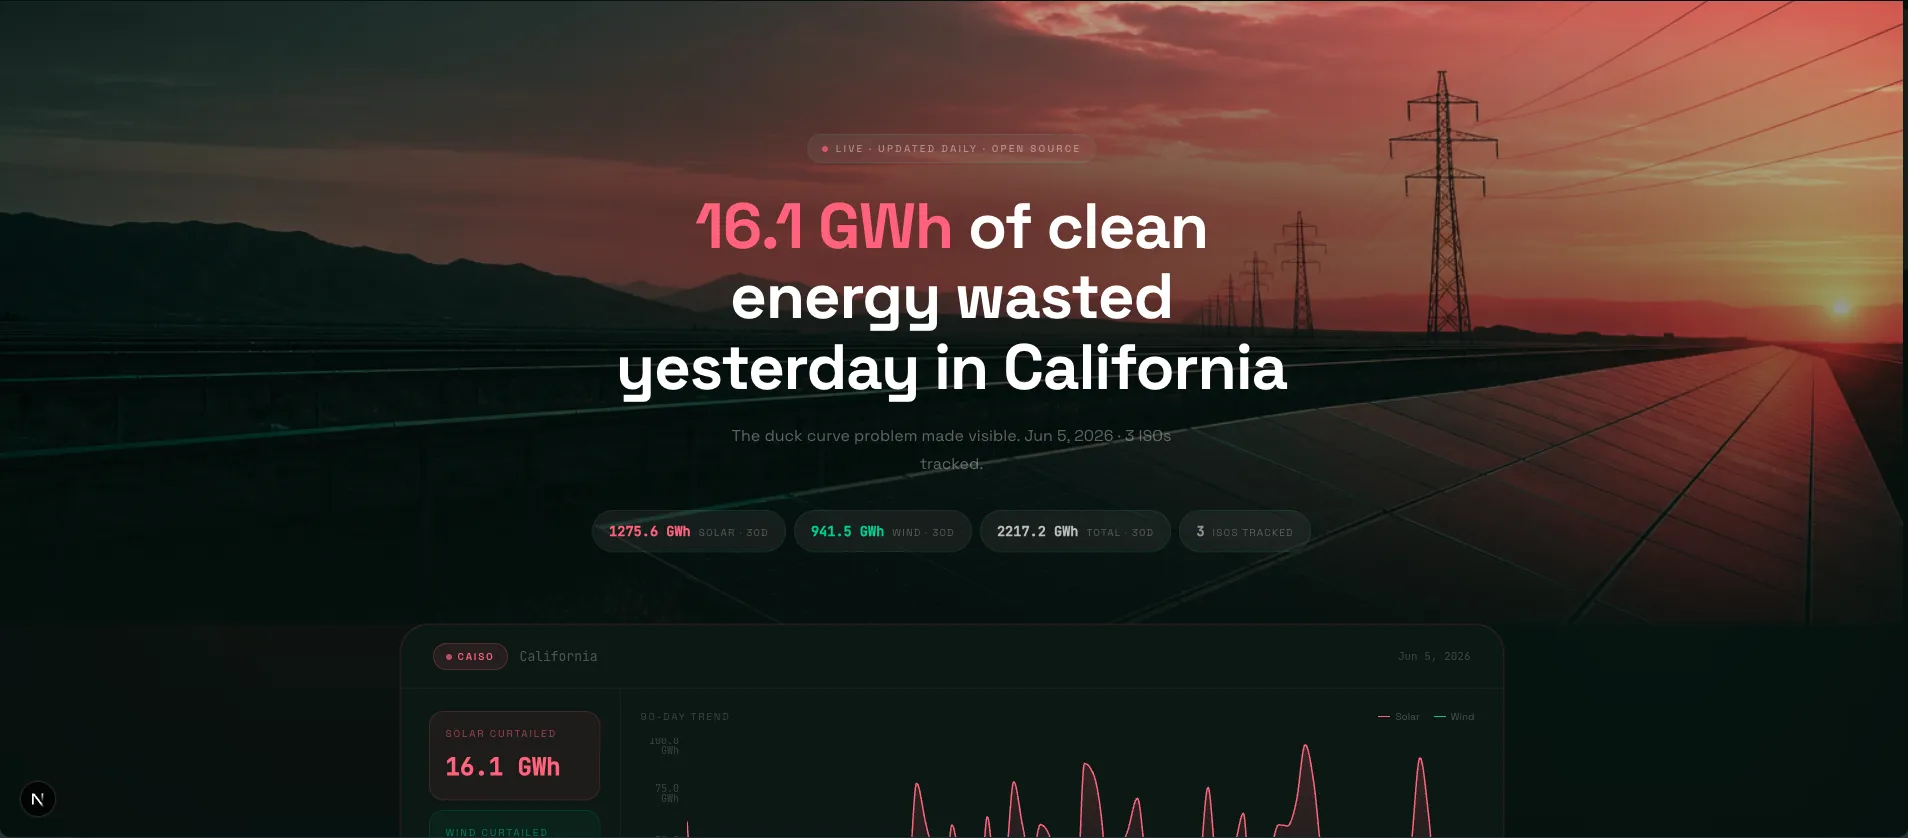
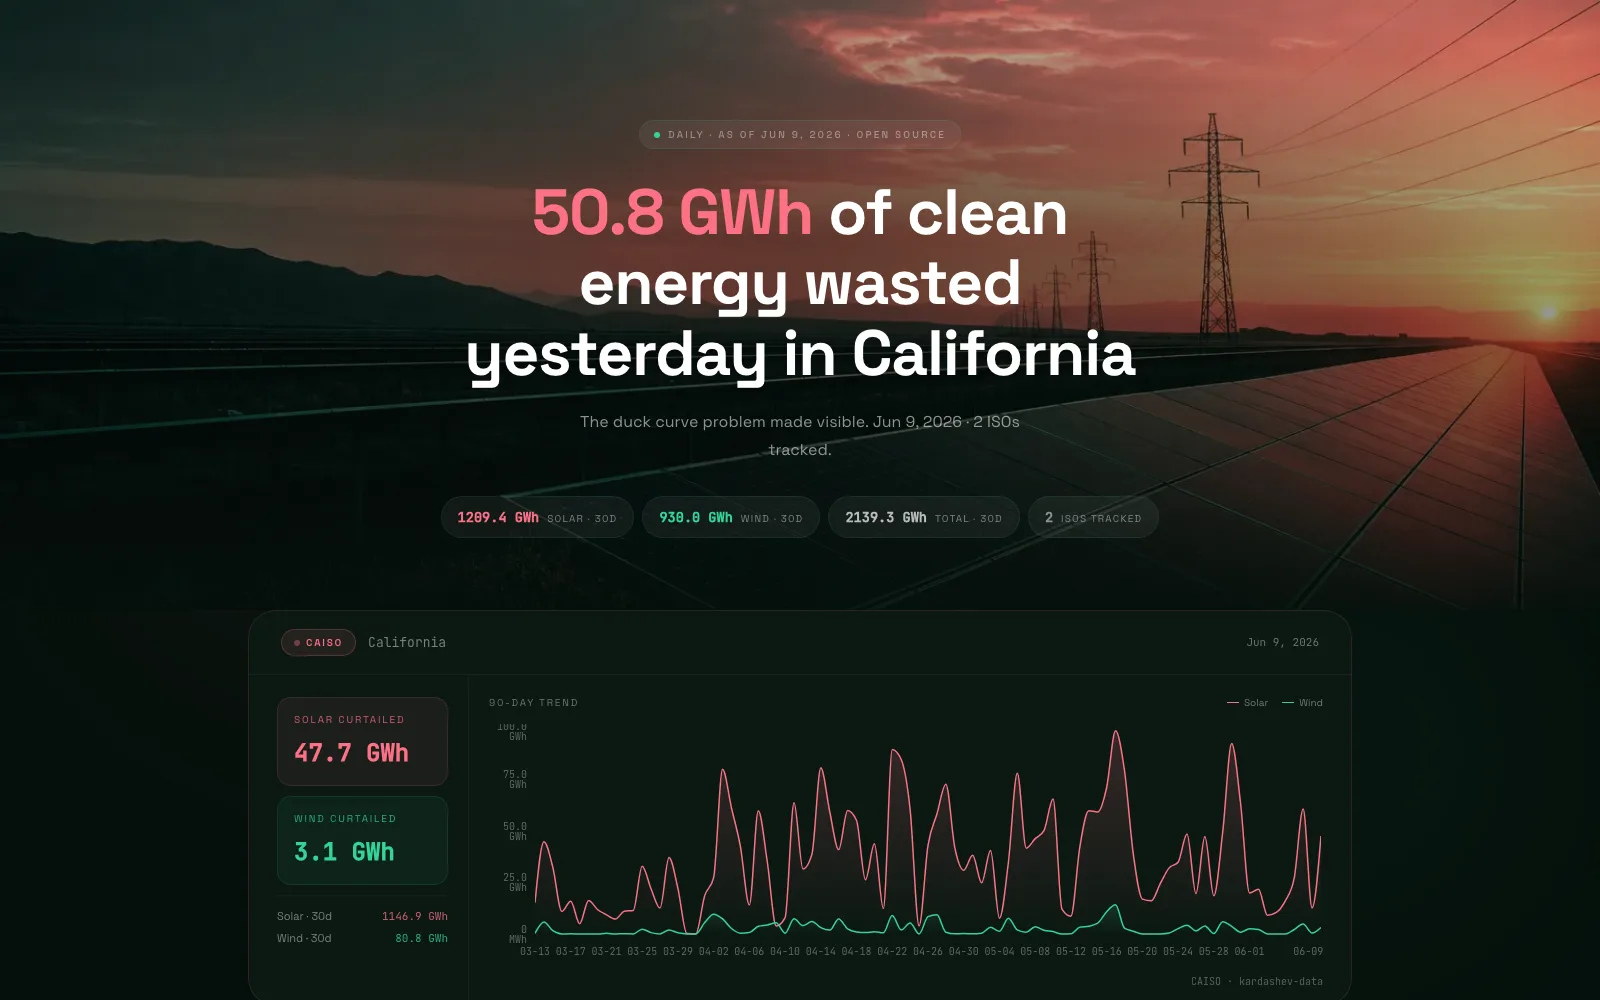
Fix tool theme colors and refresh dashboard screenshots
Tailwind's content globs didn't include lib/, so the per-tool button,
badge, and accent classes defined in lib/site.ts were purged from the
build — only the interconnection card looked right because Hero.tsx
happens to use the same blue utilities. lib/ is now scanned. Tool card
previews are recaptured from the live dashboards (including the recent
design pass) and served as WebP.

diff --git a/lib/site.ts b/lib/site.ts
@@ -103,7 +103,7 @@ export const TOOLS: Tool[] = [
       { value: '95%', label: 'CONUS coverage' },
       { value: '23ms', label: 'chaos recovery' },
     ],
-    image: '/images/tool-grid-demand.png',
+    image: '/images/tool-grid-demand.webp',
     imageAlt: 'Real-time grid demand dashboard preview',
     theme: {
       accent: 'from-emerald-500/20 to-emerald-500/0',
@@ -187,7 +187,7 @@ export const TOOLS: Tool[] = [
       { value: '5-min', label: 'RT price refresh' },
       { value: 'RT + DA', label: 'market depth' },
     ],
-    image: '/images/tool-lmp.png',
+    image: '/images/tool-lmp.webp',
     imageAlt: 'LMP dashboard preview showing CAISO real-time prices',
     theme: {
       accent: 'from-violet-500/20 to-violet-500/0',

diff --git a/tailwind.config.ts b/tailwind.config.ts
@@ -5,6 +5,8 @@ const config: Config = {
     './pages/**/*.{js,ts,jsx,tsx,mdx}',
     './components/**/*.{js,ts,jsx,tsx,mdx}',
     './app/**/*.{js,ts,jsx,tsx,mdx}',
+    // TOOLS theme classes (buttons, badges, accents) live in lib/site.ts
+    './lib/**/*.{js,ts,jsx,tsx,mdx}',
   ],
   theme: {
     extend: {